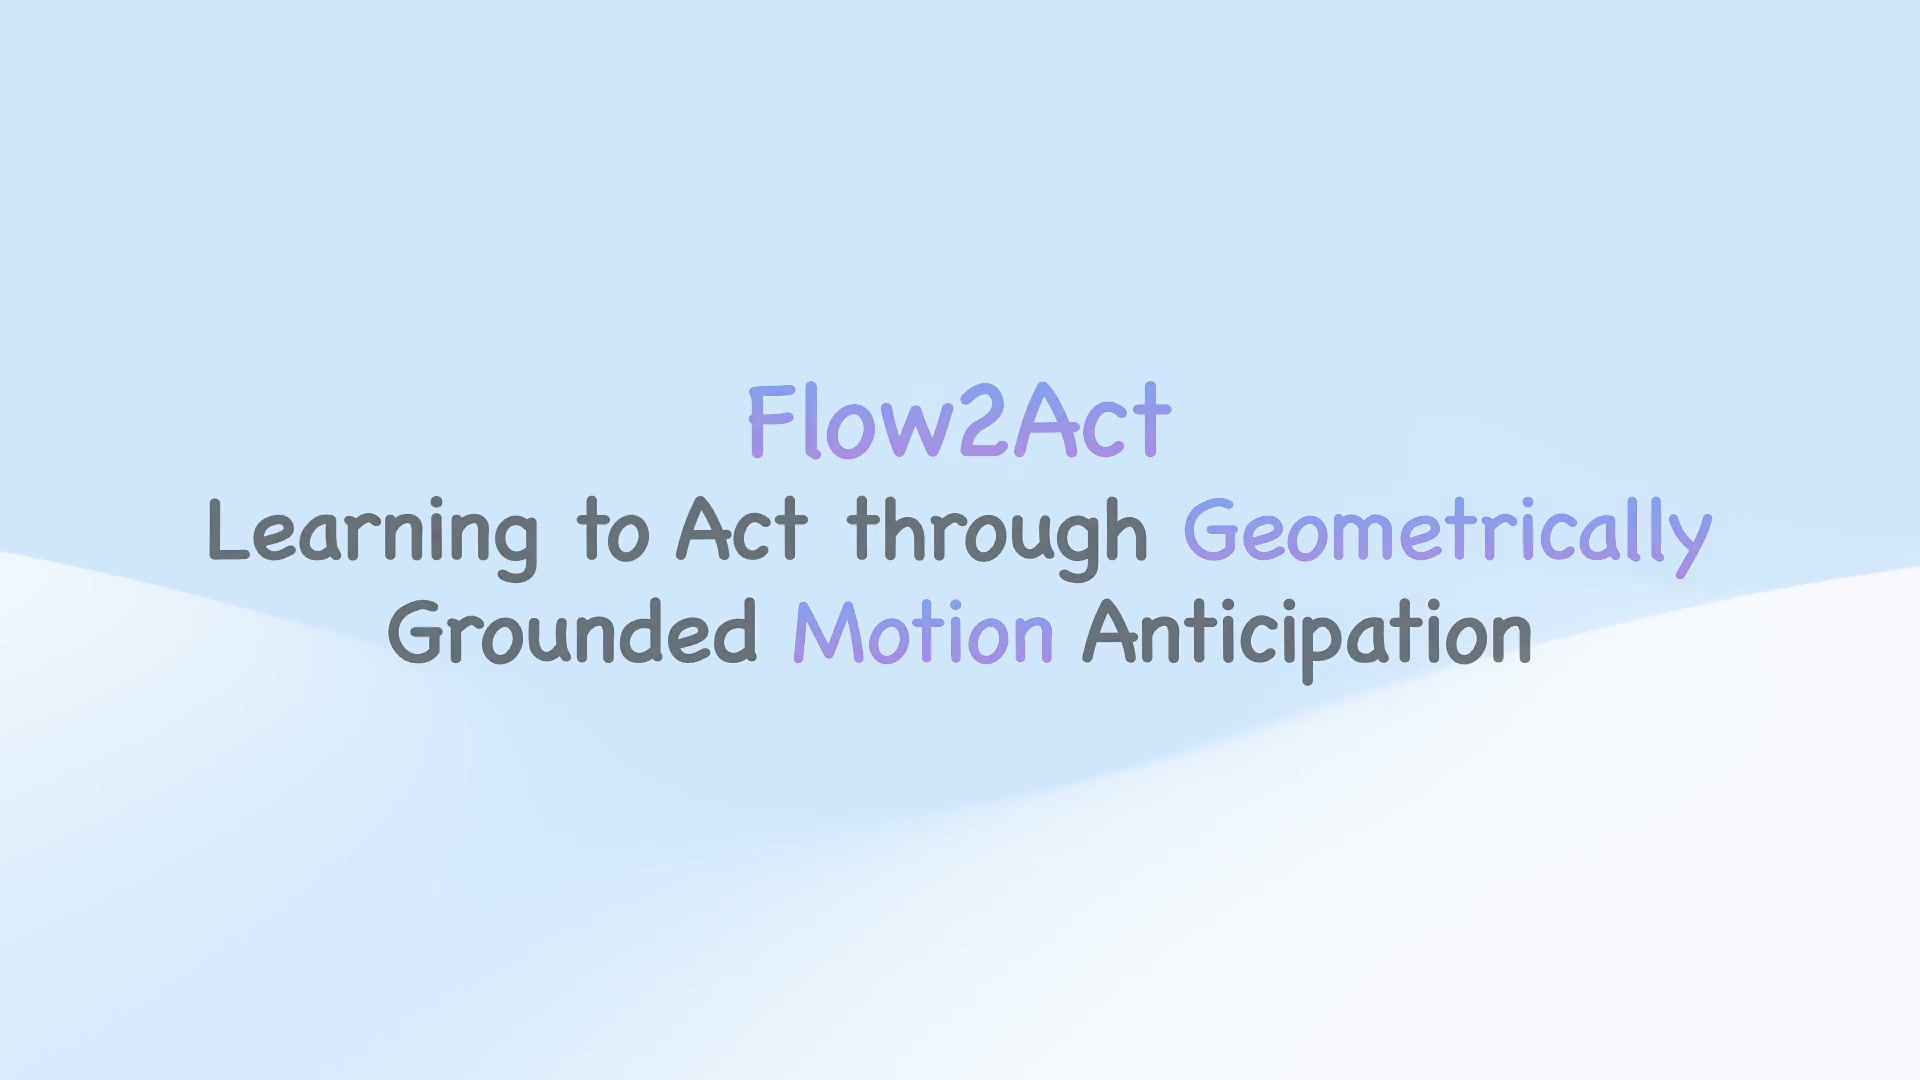
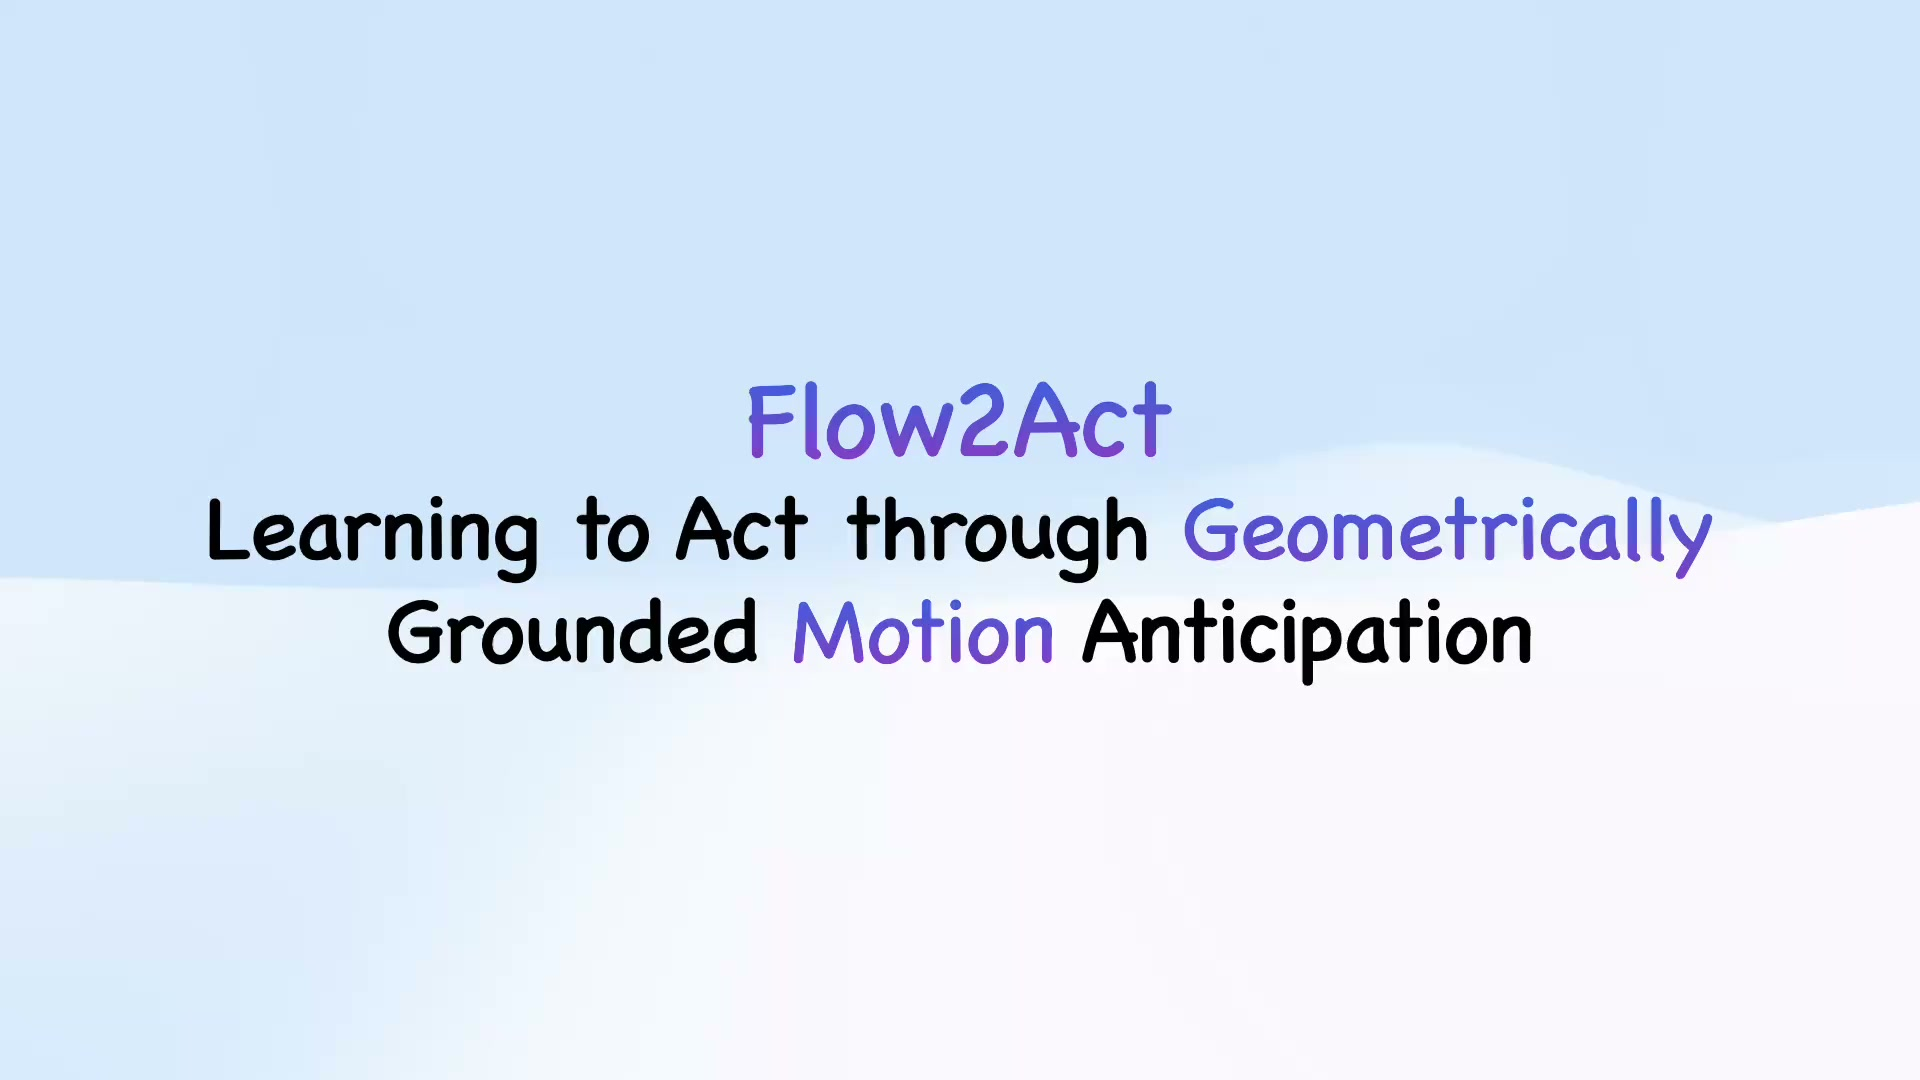
Use a clear title frame for the demo poster

diff --git a/index.html b/index.html
@@ -73,7 +73,7 @@
     <section class="project-film" id="demo" aria-label="Project demo">
       <div class="promo-wrap">
         <div class="promo-inner">
-          <video id="mainVideo" controls playsinline preload="metadata" poster="assets/images/demo-poster.jpg" aria-label="Flow2Act project demonstration">
+          <video id="mainVideo" controls playsinline preload="metadata" poster="assets/images/demo-poster.jpg?v=2" aria-label="Flow2Act project demonstration">
             <source src="assets/videos/Flow2Act-demo.mp4" type="video/mp4">
             Your browser does not support embedded video. <a href="assets/videos/Flow2Act-demo.mp4">Download the demo</a>.
           </video>

diff --git a/README.md b/README.md
@@ -22,7 +22,7 @@ python3 -m http.server 8000 --bind 127.0.0.1
 - `assets/css/style.css`：页面样式和移动端适配。
 - `assets/js/main.js`：每次打开默认使用亮色，可手动切换暗色。
 - `assets/videos/Flow2Act-demo.mp4`：H.264/AAC 网页播放版本，支持 faststart。
-- `assets/images/demo-poster.jpg`：从新版 demo 第 3 秒提取的封面。
+- `assets/images/demo-poster.jpg`：从 demo 首帧提取的封面，使用淡出前的完整标题画面。
 - `assets/videos/real-world/`：9 组真机对比 MP4 及封面。
 
 实验表格取自论文 PDF 的 Table 12（LIBERO）、Table 13（LIBERO-Plus）和 Table 3（RoboTwin 2.0）。
